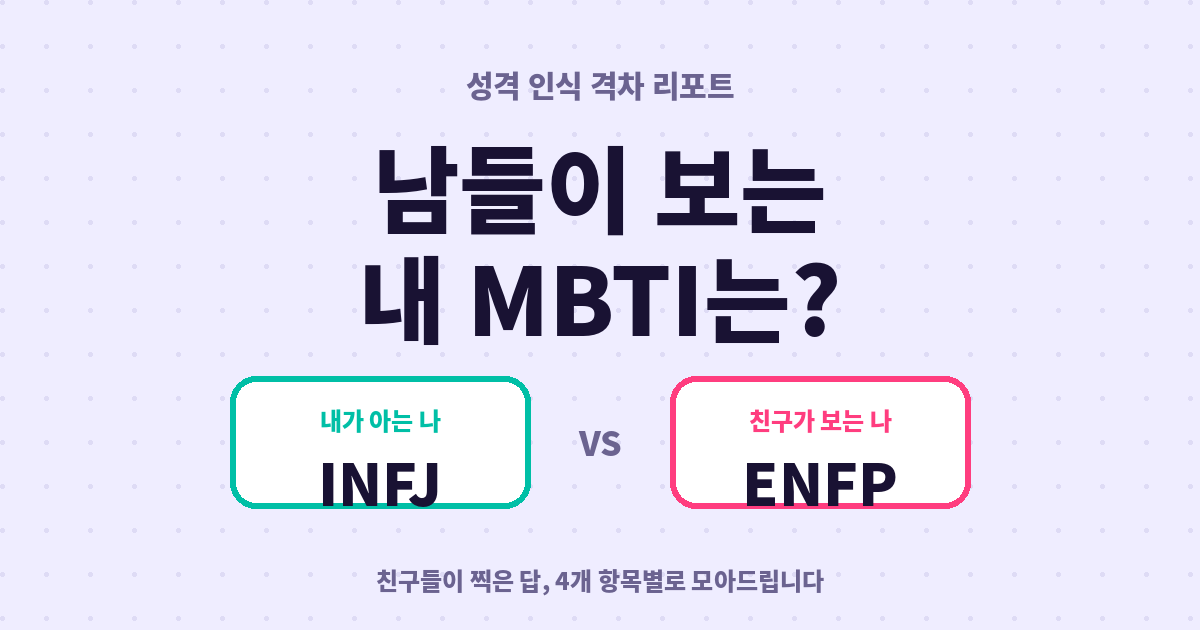
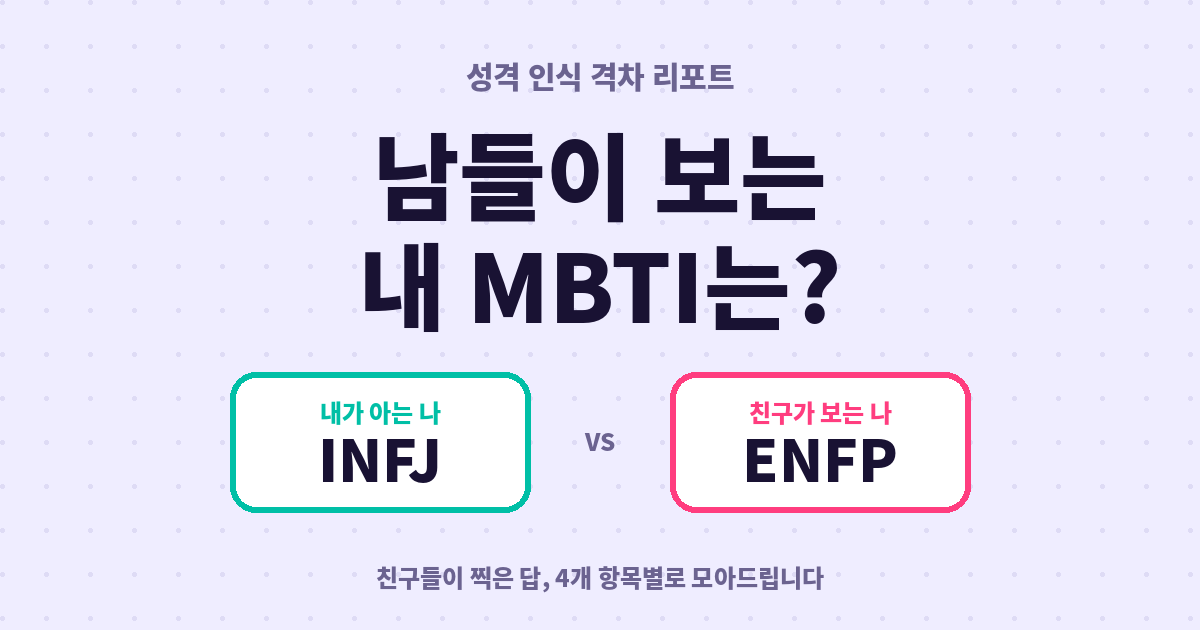
Add files via upload

diff --git a/index.html b/index.html
@@ -767,10 +767,7 @@ function viewReveal(){
     ${AXFOOT}
     <p class="note" style="margin-top:14px">채점평과 전체 리포트는 ${nk}님만 볼 수 있어요.</p>
   </div>
-  <div class="row2">
-    <button class="btn ghost sm" id="rshare">결과 공유하기</button>
-    <button class="btn ghost sm" id="rsave">이미지로 저장</button>
-  </div>
+  <button class="btn ghost" id="rsave" style="margin-top:16px">결과 이미지로 공유하기</button>
   <div class="card" style="border-color:var(--them);margin-top:16px">
     <h3 style="color:var(--them)">그럼 당신은요?</h3>
     <p style="margin-top:8px">${nk}님을 이렇게 본 당신, 친구들은 당신을 어떻게 볼까요.
@@ -878,19 +875,6 @@ app.addEventListener('click', async e=>{
     el.disabled = true; toast('이미지를 만드는 중...');
     try{ await saveResultImage(); }catch(err){ console.error(err); toast('이미지를 만들지 못했어요'); }
     el.disabled = false; return;
-  }
-
-  if(id==='rshare'){
-    const g = mbtiOf(S.guess), my = S.room.mbti;
-    const hit = [0,1,2,3].filter(i=>g[i]===my[i]).length;
-    const url = shareUrl(S.nick);
-    const msg = `${S.nick}님 MBTI, 4개 중 ${hit}개 맞혔어요!`;
-    if(navigator.share){
-      try{ await navigator.share({ title: msg, text: msg, url }); return; }
-      catch(err){ if(err && err.name === 'AbortError') return; }
-    }
-    try{ await navigator.clipboard.writeText(msg + '\n' + url); }catch(err){}
-    return toast('문구와 링크를 복사했어요');
   }
 
   if(id==='refresh'){
